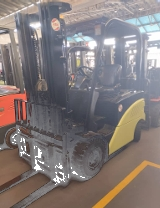
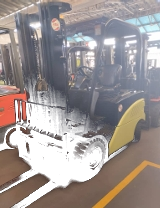
fix: replace CPD25F8 with U20W3Li, fix product card visibility
- Replaced CPD25F8 (bad photo) with U20W3Li UNILIFT (professional photo)
- Downloaded and processed U20W3Li image with transparent background
- Fixed product catalog cards: solid bg-[#111113] instead of invisible glass
- Removed mix-blend-lighten (no longer needed with real transparency)
- Reprocessed tan35d and uprr15li PNGs with better threshold

Changed region(s): [[0.0, 0.3462, 0.8125, 1.0], [0.0312, 0.375, 0.0938, 0.4038], [0.8125, 0.6635, 0.8438, 0.6923]]

diff --git a/src/lib/store-data.ts b/src/lib/store-data.ts
@@ -36,34 +36,34 @@ export interface Accesorio {
 export const storeProducts: StoreProduct[] = [
   {
     id: '1',
-    slug: 'cpd25f8',
-    modelo: 'CPD25F8',
-    marca: 'MEGALIFT',
+    slug: 'u20w3li',
+    modelo: 'U20W3Li',
+    marca: 'UNILIFT',
     categoria: 'montacarga-electrico',
     categoriaLabel: 'Montacarga Electrico',
-    capacidad: '2,500 kg',
-    motor: 'Electrico',
-    imagen: '/images/products/cpd25f8.png',
-    precioDesde: 18500,
+    capacidad: '2,000 kg',
+    motor: 'Electrico Li-Ion',
+    imagen: '/images/products/u20w3li.png',
+    precioDesde: 19800,
     badge: 'Mas Vendido',
     specs: {
-      capacidadCarga: '2,500 kg',
-      anchoPasillo: '2,135 mm',
-      longitudSinHorquillas: '3,416 mm',
-      anchoTotal: '1,252 mm',
-      alturaChasis: '2,180 mm',
-      tipoMotor: 'Electrico AC',
-      bateria: '48V / 600Ah',
+      capacidadCarga: '2,000 kg',
+      anchoPasillo: '1,585 mm',
+      longitudSinHorquillas: '3,020 mm',
+      anchoTotal: '1,170 mm',
+      alturaChasis: '2,078 mm',
+      tipoMotor: 'Electrico AC Li-Ion',
+      bateria: '48V Li-Ion / Carga rapida',
       mastil: 'Triple / Altura max. 4,500 mm',
     },
-    descripcion: 'Montacarga electrico de alto rendimiento ideal para operaciones en interiores. Cero emisiones, bajo nivel de ruido y maxima eficiencia energetica.',
+    descripcion: 'Montacarga electrico de ultima generacion con bateria de litio. Cero emisiones, carga rapida y maxima eficiencia para operaciones continuas en interiores.',
     caracteristicas: [
+      'Bateria de litio de carga rapida',
       'Motor AC de alta eficiencia',
-      'Sistema de frenado regenerativo',
-      'Pantalla multifuncion LCD',
+      'Pantalla multifuncion digital',
       'Direccion asistida electrica',
       'Cabina ergonomica con suspension',
-      'Autonomia de hasta 8 horas continuas',
+      'Pasillo estrecho - operacion compacta',
     ],
   },
   {

diff --git a/src/app/(store)/productos/page.tsx b/src/app/(store)/productos/page.tsx
@@ -110,7 +110,7 @@ export default function ProductosPage() {
         <div className="grid grid-cols-1 md:grid-cols-3 gap-6">
           {storeProducts.map((product) => (
             <Link key={product.id} href={`/productos/${product.slug}`}
-              className="group relative glass rounded-2xl overflow-hidden hover:border-[#E8821C]/20 transition-all duration-500">
+              className="group relative rounded-2xl overflow-hidden bg-[#111113] border border-white/[0.08] hover:border-[#E8821C]/30 transition-all duration-500">
               {/* Badge */}
               {product.badge && (
                 <div className="absolute top-4 left-4 z-10">
@@ -127,9 +127,9 @@ export default function ProductosPage() {
                   alt={`${product.marca} ${product.modelo}`}
                   width={400}
                   height={300}
-                  className="object-contain max-h-full group-hover:scale-105 transition-transform duration-700 drop-shadow-[0_10px_30px_rgba(232,130,28,0.1)]"
+                  className="object-contain max-h-full group-hover:scale-105 transition-transform duration-700 drop-shadow-[0_10px_30px_rgba(232,130,28,0.15)]"
                 />
-                <div className="absolute inset-0 bg-gradient-to-t from-[#08080A] via-transparent to-transparent opacity-60" />
+                <div className="absolute inset-0 bg-gradient-to-t from-[#08080A] via-transparent to-transparent opacity-40" />
               </div>
 
               {/* Info */}
